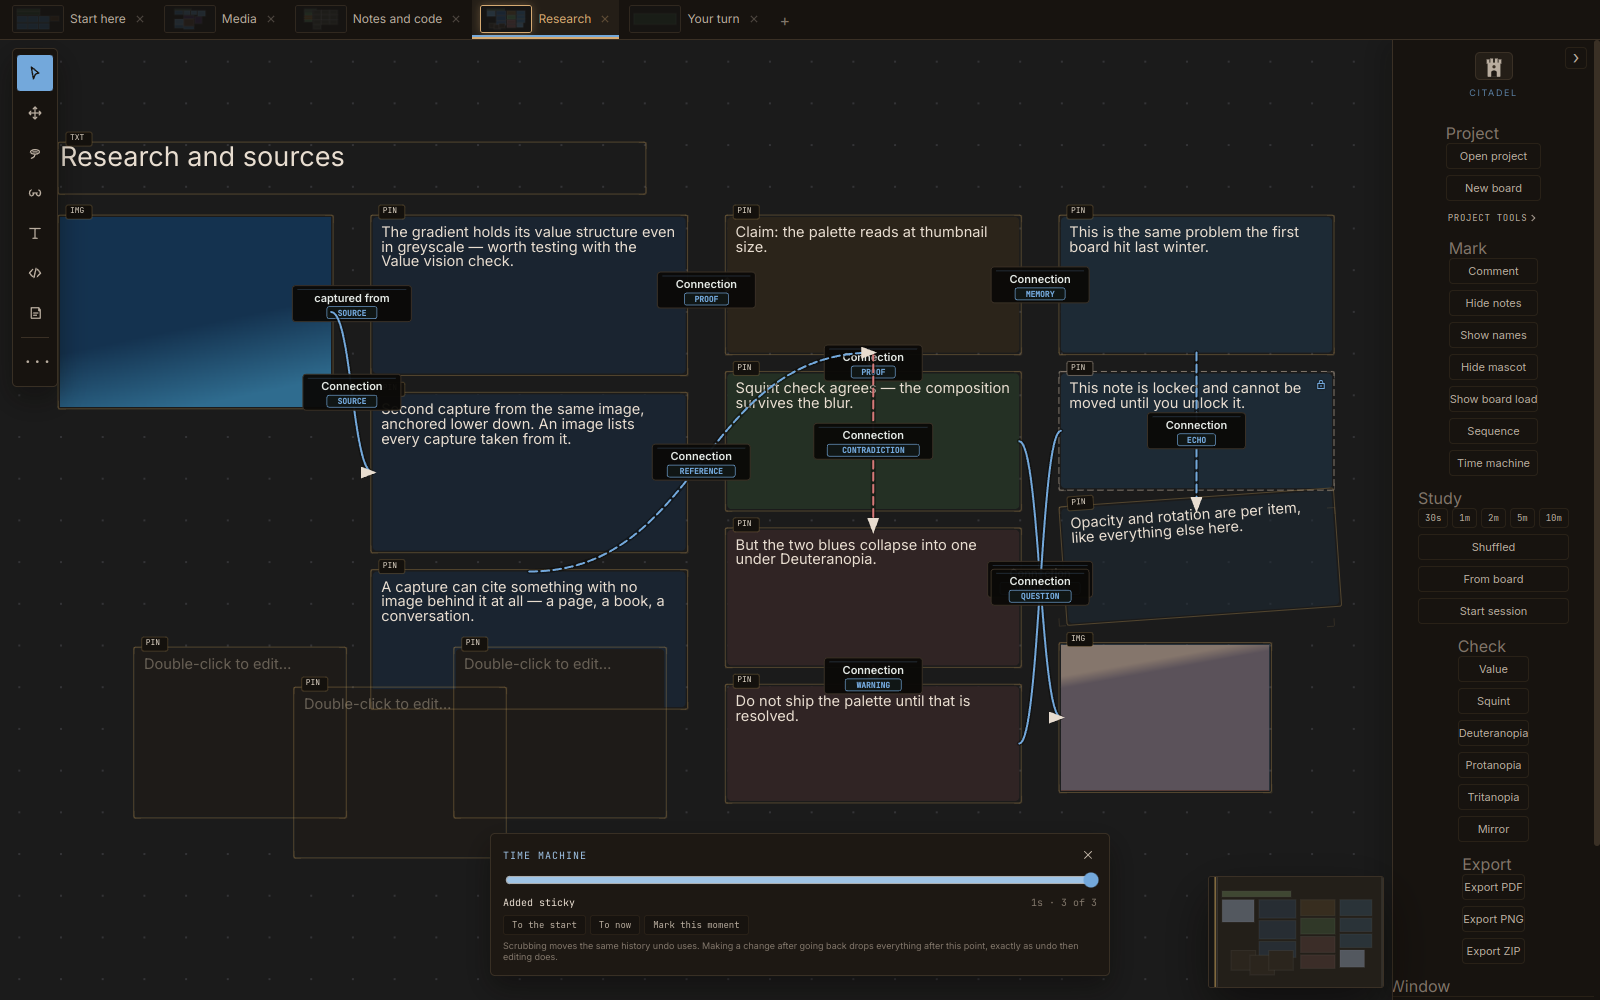
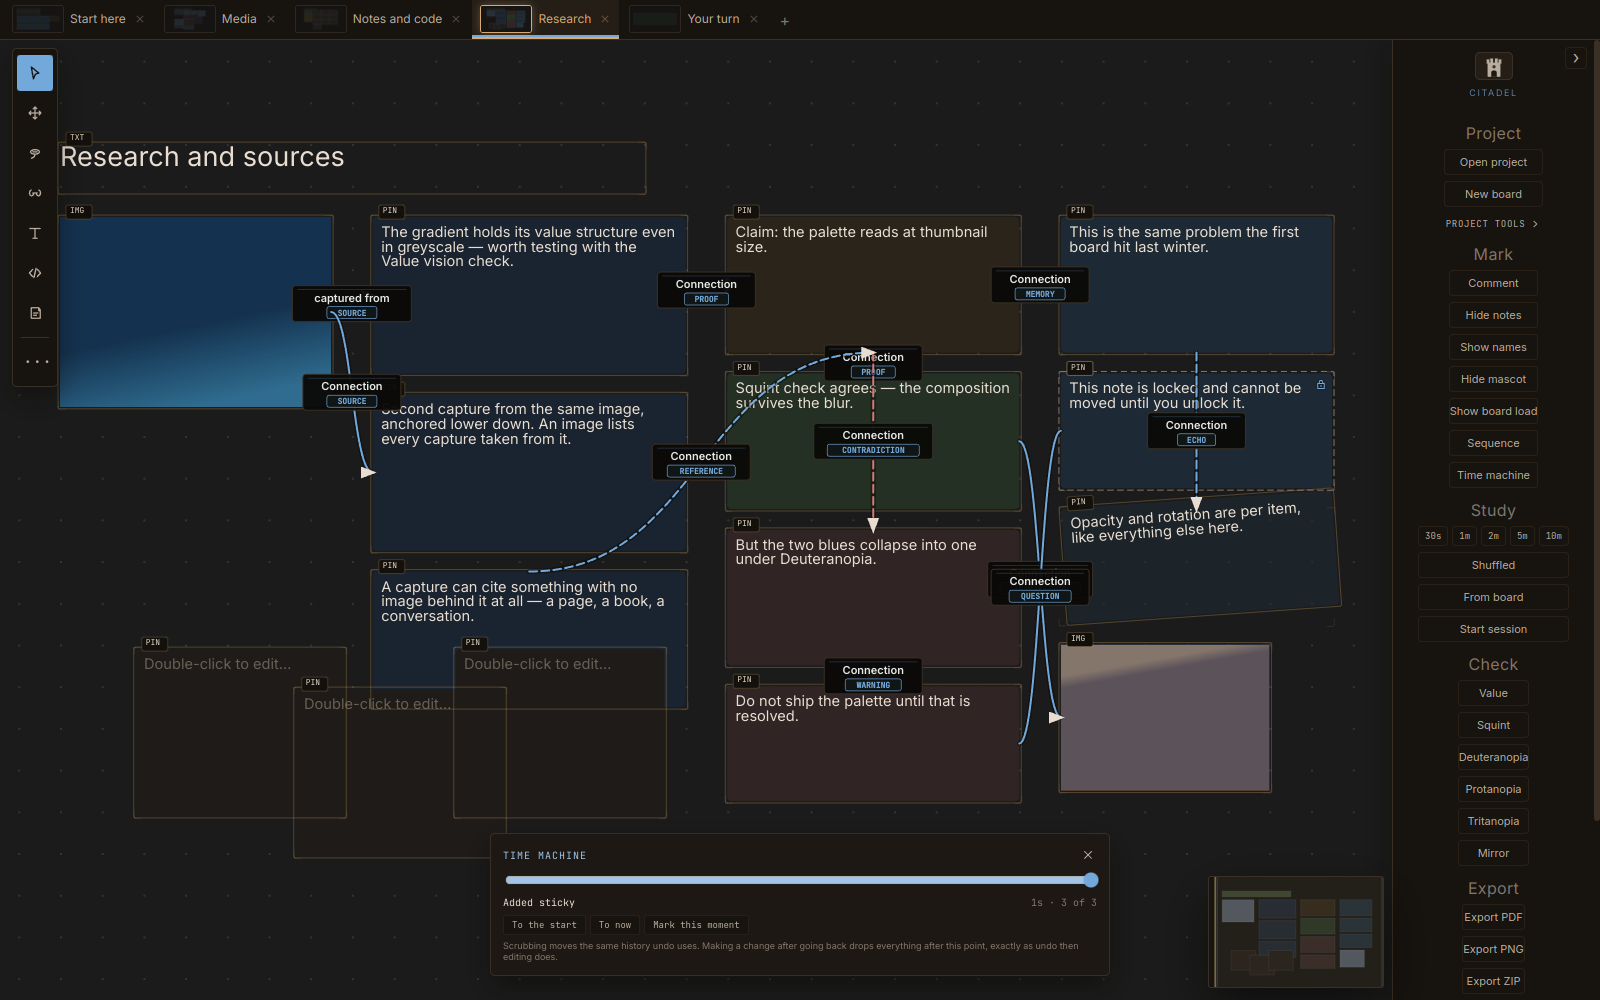
style: centre the project rail's section headings, and capture overlay mode
The rail's controls are full-width and centred while their headings sat
left-aligned against them, which read as an oversight rather than a choice —
the headings had no alignment rule at all, only a colour. Project, Mark, Study,
Check, Export and Window are now centred, and the Project Tools disclosure with
them: its chevron sits beside the label instead of pinned to the far edge, so it
still reads as expandable without being the one thing out of line.

Adds the overlay-mode screenshot the capture script cannot stage, since it is a
photograph of two applications rather than one window. Citadel floats over
Aseprite at 90% opacity, both showing the Citadel mark: the drawing on the left,
the same image as reference on the right beside notes about how the battlements
read at 16px and a swatch of the icon's four colours.

The six board screenshots are regenerated so they show the corrected rail rather
than the version this commit fixes.

Claude-Session: https://claude.ai/code/session_01Sy41EmiD15hPgrDZKverYy

Changed region(s): [[0.875, 0.124, 0.9688, 0.992]]

diff --git a/src/renderer/theme/cleanArchive.css b/src/renderer/theme/cleanArchive.css
@@ -255,14 +255,23 @@
   border-bottom-color: var(--chrome-edge-muted) !important;
 }
 
+/* The rail's controls are full-width and centred, so a left-aligned heading
+   above them reads as a mistake rather than a choice. Centred, with the section
+   spacing that had been left to the gap between groups. */
 .citadel-sidebar-section-title {
   color: var(--chrome-text-muted) !important;
+  text-align: center;
+  margin-bottom: 6px;
+  letter-spacing: 0.02em;
 }
 
 .citadel-sidebar-disclosure {
   display: flex;
   align-items: center;
-  justify-content: space-between;
+  /* Centred with the section headings above it. The chevron stays beside the
+     label rather than pinned to the edge, so it still reads as expandable. */
+  justify-content: center;
+  gap: 4px;
   width: 100%;
   padding: 5px 2px 2px;
   border: 0;
@@ -272,7 +281,7 @@
   font-family: var(--font-mono);
   font-size: 9px;
   letter-spacing: 0.08em;
-  text-align: left;
+  text-align: center;
   text-transform: uppercase;
 }
 

diff --git a/docs/itch-listing.md b/docs/itch-listing.md
@@ -103,14 +103,18 @@ genuinely fine, and the instructions are in the repository.
   `node scripts/captureScreenshots.mjs`. Suggested order on the page:
   `01-board-research` (connections and their meanings), `04-vision-value` (the
   greyscale check, the most distinctive thing in the app), `02-board-media`,
-  `05-time-machine`, `03-board-code`, `06-board-start`.
+  `07-overlay-mode` (the PureRef-style workflow, and the clearest
+  single argument for the app), `05-time-machine`, `03-board-code`,
+  `06-board-start`.
   - **`02-board-media` has Google's cookie-consent screen inside the YouTube
     embed.** That is what a YouTube item honestly looks like on first load, but
     it reads badly as a store image. Either drop that shot, or accept the embed
     showing a consent prompt.
-  - **Overlay mode over a drawing program is not captured.** It needs Citadel
-    sitting on top of another real application on a real desktop, which is a
-    photograph of two programs rather than something a headless run can stage.
+  - **`07-overlay-mode`** is Citadel floating over Aseprite at 90% opacity, both
+    showing the Citadel mark — the drawing on the left, the same image as
+    reference on the right with notes and a palette. Captured by hand on a real
+    desktop rather than by the script, because it is a photograph of two
+    applications.
 - **A cover image** (630×500). The rook icon on the canvas dot grid would do it.
 - **Choose the revenue share.** itch lets the creator set the platform's cut;
   pick it deliberately rather than accepting whatever the form offers.
